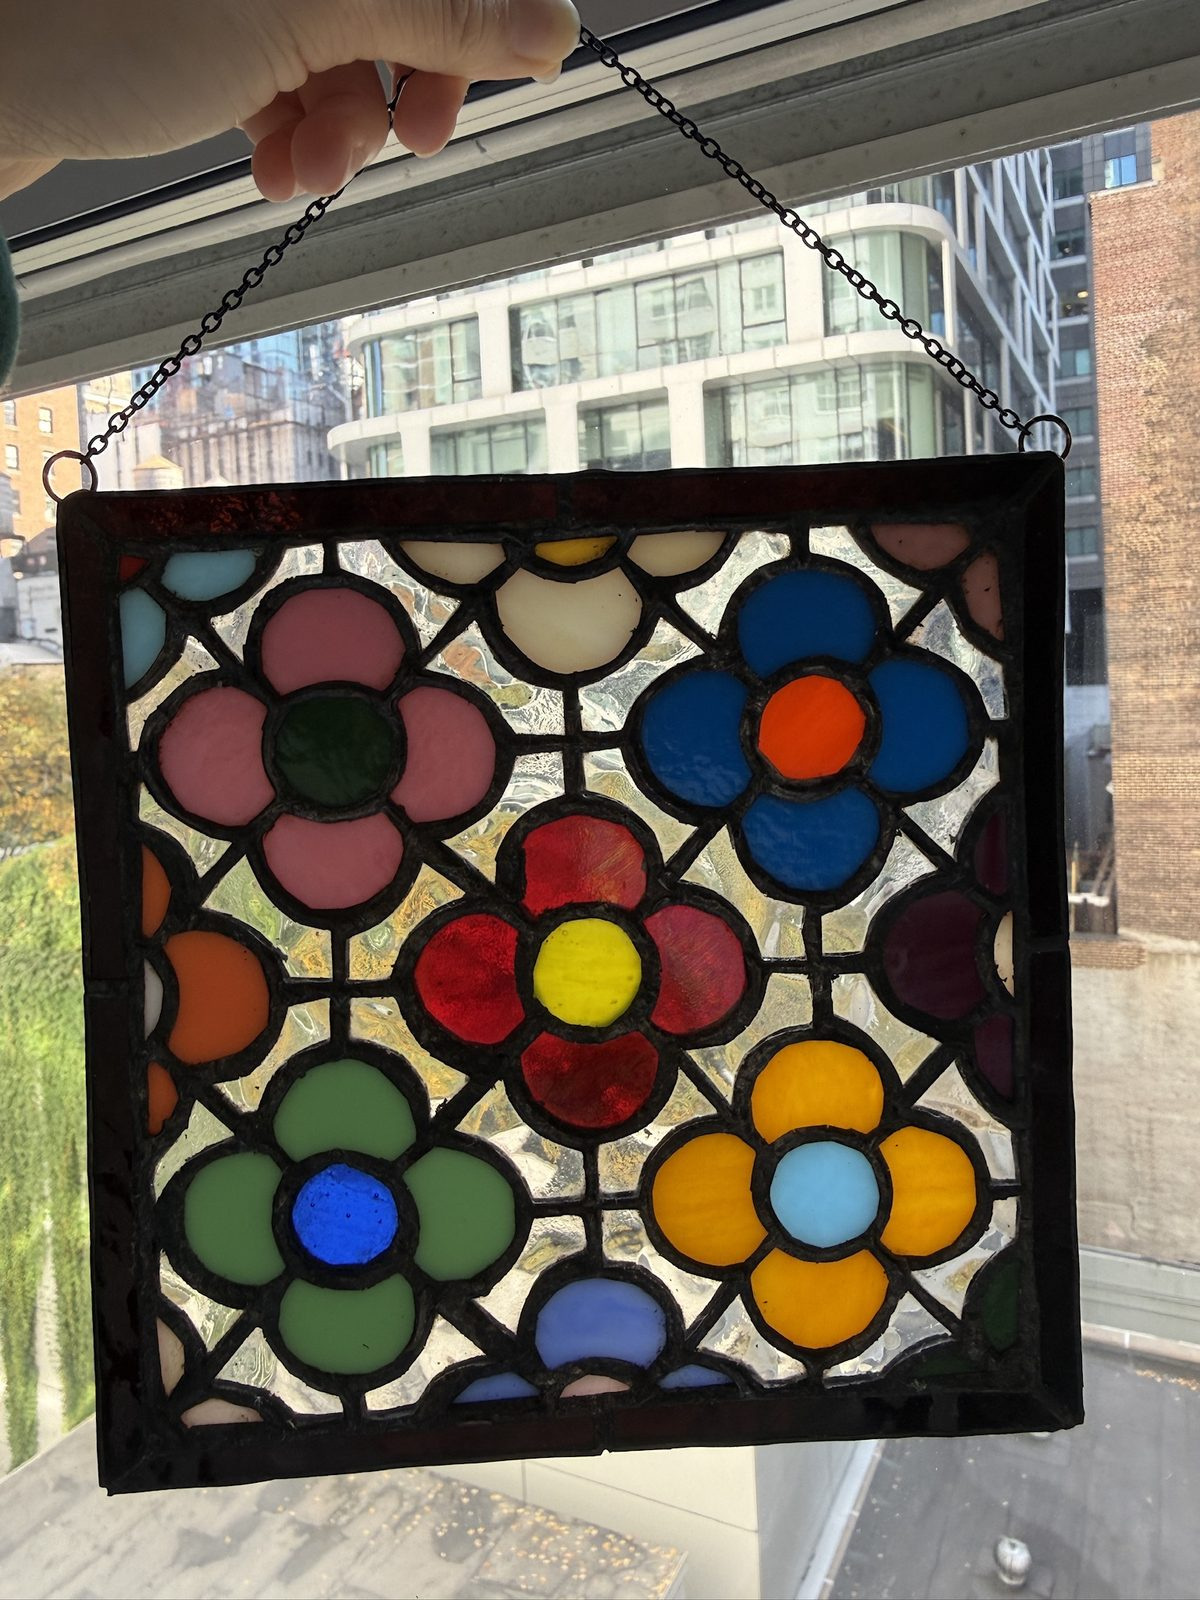
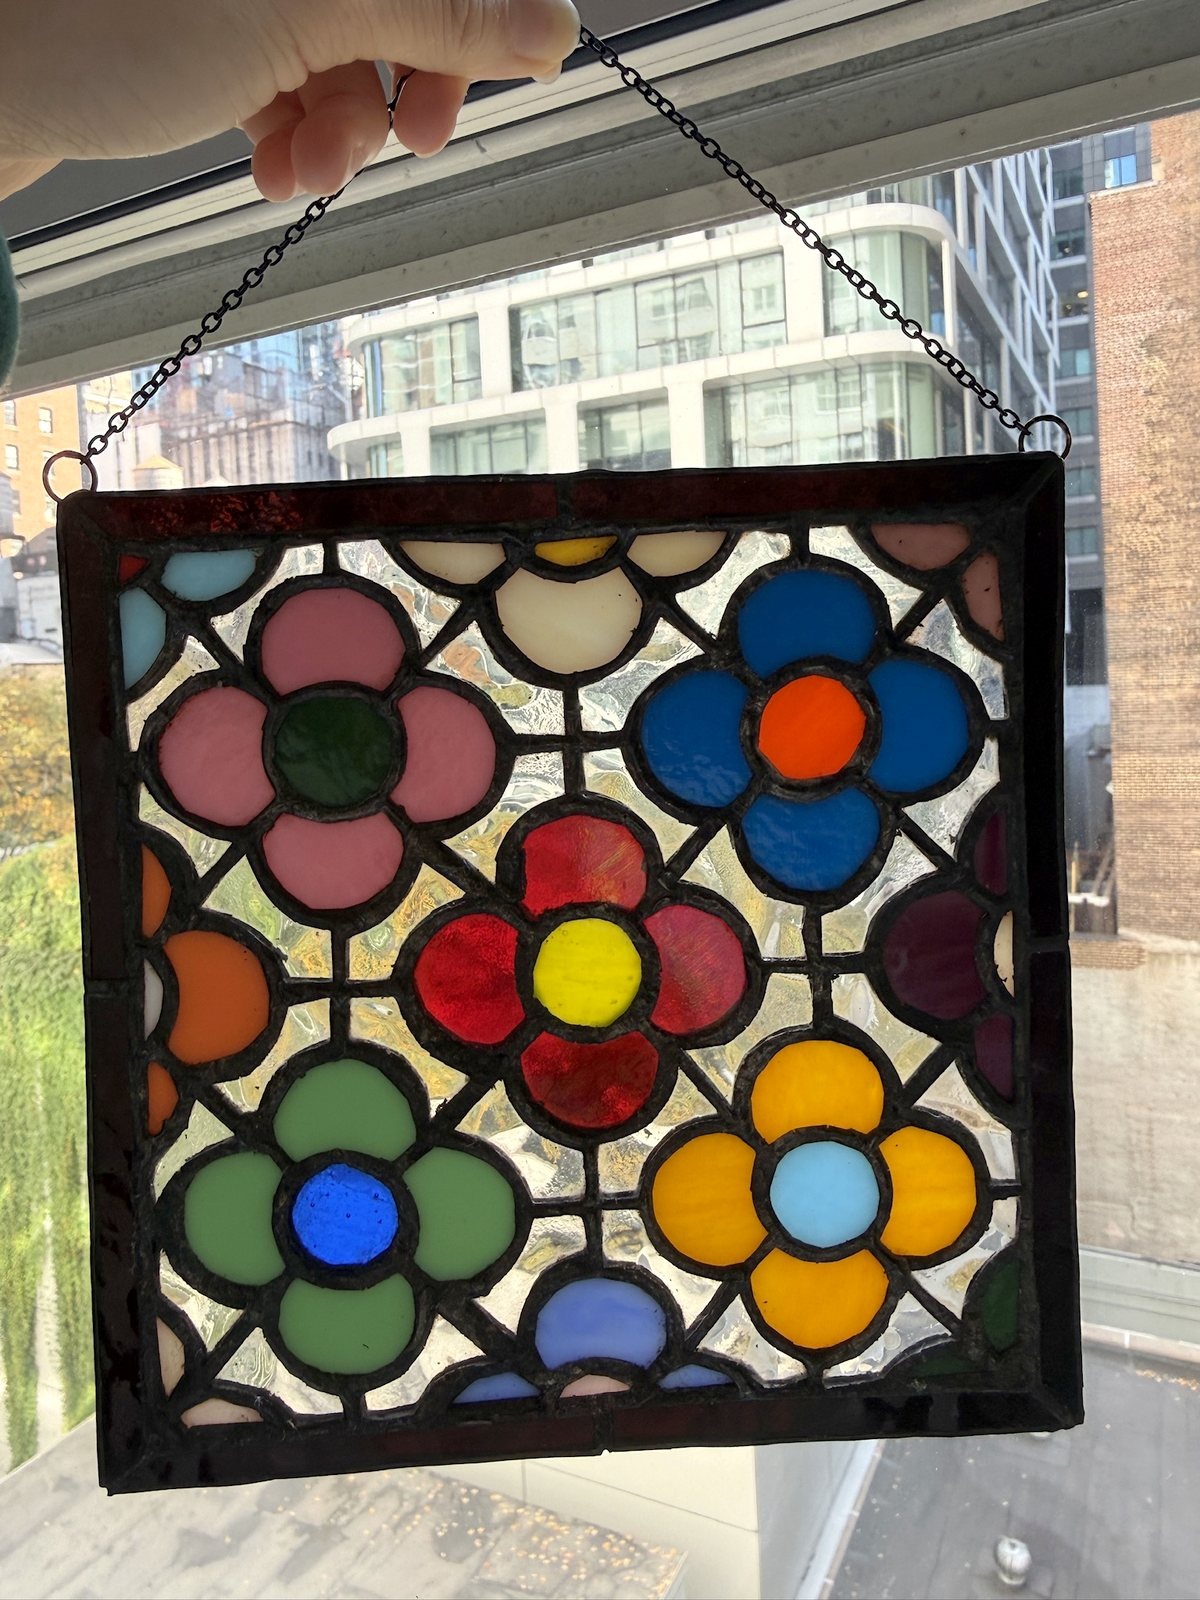
Stained glass: Korean card names, years, one brighter flower photo
Claude-Session: https://claude.ai/code/session_01KejyTMUFv3C1Ncw7AGnn1u

diff --git a/projects/stained-glass.html b/projects/stained-glass.html
@@ -31,13 +31,13 @@
 <p>My stained glass pieces, grouped by theme.</p>
 <h2>Korean playing cards</h2>
 <p>Pieces based on hwatu (화투), the Korean flower cards.</p>
-<div class="gallery"><figure><img src="../images/stainedglass/hwatu-iris.jpg" alt="Hwatu card with blue irises over a yellow plank bridge" loading="lazy"><figcaption>Irises</figcaption></figure><figure><img src="../images/stainedglass/hwatu-peony.jpg" alt="Hwatu card with two red peonies" loading="lazy"><figcaption>Peonies</figcaption></figure><figure><img src="../images/stainedglass/hwatu-moon.jpg" alt="Hwatu card with a white full moon over a black hill, marked 光" loading="lazy"><figcaption>Full moon</figcaption></figure><figure><img src="../images/stainedglass/hwatu-ribbon.jpg" alt="Hwatu card with a red ribbon" loading="lazy"><figcaption>Ribbon</figcaption></figure></div>
+<div class="gallery"><figure><img src="../images/stainedglass/hwatu-iris.jpg" alt="Hwatu card with blue irises over a yellow plank bridge" loading="lazy"><figcaption>난초 (Orchid), 2026</figcaption></figure><figure><img src="../images/stainedglass/hwatu-peony.jpg" alt="Hwatu card with two red peonies" loading="lazy"><figcaption>모란 (Peony), 2024</figcaption></figure><figure><img src="../images/stainedglass/hwatu-moon.jpg" alt="Hwatu card with a white full moon over a black hill, marked 光" loading="lazy"><figcaption>공산 (Empty Mountain), 2023</figcaption></figure><figure><img src="../images/stainedglass/hwatu-ribbon.jpg" alt="Hwatu card with a red ribbon" loading="lazy"><figcaption>비 (Rain), 2025</figcaption></figure></div>
 <h2>Geometric</h2>
-<div class="gallery"><figure><img src="../images/stainedglass/check.jpg" alt="Geometric piece in red, blue and amber" loading="lazy"><figcaption>My own design</figcaption></figure><figure><img src="../images/stainedglass/deco-fan.jpg" alt="Fan shape in blue and purple glass" loading="lazy"></figure><figure><img src="../images/stainedglass/deco-wings.jpg" alt="Wing shape in yellow and green glass" loading="lazy"></figure><figure><img src="../images/stainedglass/deco-triangle.jpg" alt="Triangle with a red and yellow medallion" loading="lazy"></figure><figure><img src="../images/stainedglass/geometric-square.jpg" alt="Square panel in amber, cream and green" loading="lazy"></figure><figure><img src="../images/stainedglass/kitchen-transom.jpg" alt="A long strip of red, blue and white glass above a kitchen doorway" loading="lazy"><figcaption>Above the kitchen doorway</figcaption></figure></div>
+<div class="gallery"><figure><img src="../images/stainedglass/check.jpg" alt="Geometric piece in red, blue and amber" loading="lazy"><figcaption>My own design, 2023</figcaption></figure><figure><img src="../images/stainedglass/deco-fan.jpg" alt="Fan shape in blue and purple glass" loading="lazy"><figcaption>2024</figcaption></figure><figure><img src="../images/stainedglass/deco-wings.jpg" alt="Wing shape in yellow and green glass" loading="lazy"><figcaption>2024</figcaption></figure><figure><img src="../images/stainedglass/deco-triangle.jpg" alt="Triangle with a red and yellow medallion" loading="lazy"><figcaption>2024</figcaption></figure><figure><img src="../images/stainedglass/geometric-square.jpg" alt="Square panel in amber, cream and green" loading="lazy"><figcaption>2025</figcaption></figure><figure><img src="../images/stainedglass/kitchen-transom.jpg" alt="A long strip of red, blue and white glass above a kitchen doorway" loading="lazy"><figcaption>Above the kitchen doorway, 2026</figcaption></figure></div>
 <h2>Flowers</h2>
-<div class="gallery"><figure><img src="../images/stainedglass/flower-panel.jpg" alt="Square panel of colorful flowers in a black frame" loading="lazy"></figure><figure><img src="../images/stainedglass/flower-panel-2.jpg" alt="The flower panel held up against the city" loading="lazy"></figure><figure><img src="../images/stainedglass/flower-panel-3.jpg" alt="The flower panel hanging against a white wall" loading="lazy"></figure></div>
+<div class="gallery"><figure><img src="../images/stainedglass/flower-panel-2.jpg" alt="Square panel of colorful flowers in a black frame, held up against the city" loading="lazy"><figcaption>2026</figcaption></figure></div>
 <h2>Characters</h2>
-<div class="gallery"><figure><img src="../images/stainedglass/dog.jpg" alt="A sitting dog in amber glass" loading="lazy"></figure><figure><img src="../images/stainedglass/frog.jpg" alt="A green frog face with a yellow hat" loading="lazy"></figure></div>
+<div class="gallery"><figure><img src="../images/stainedglass/dog.jpg" alt="A sitting dog in amber glass" loading="lazy"><figcaption>2023</figcaption></figure><figure><img src="../images/stainedglass/frog.jpg" alt="A green frog face with a yellow hat" loading="lazy"><figcaption>2023</figcaption></figure></div>
 <h2>In the window</h2>
 <p>How the collection has grown, year by year.</p>
 <div class="gallery"><figure><img src="../images/stainedglass/window-collection-2024.jpg" alt="Pieces hanging in a window, 2024" loading="lazy"><figcaption>2024</figcaption></figure><figure><img src="../images/stainedglass/window-collection-2025.jpg" alt="Pieces hanging in a window, 2025" loading="lazy"><figcaption>2025</figcaption></figure><figure><img src="../images/stainedglass/window-collection-2026.jpg" alt="Pieces hanging in a window, 2026" loading="lazy"><figcaption>2026</figcaption></figure></div>
